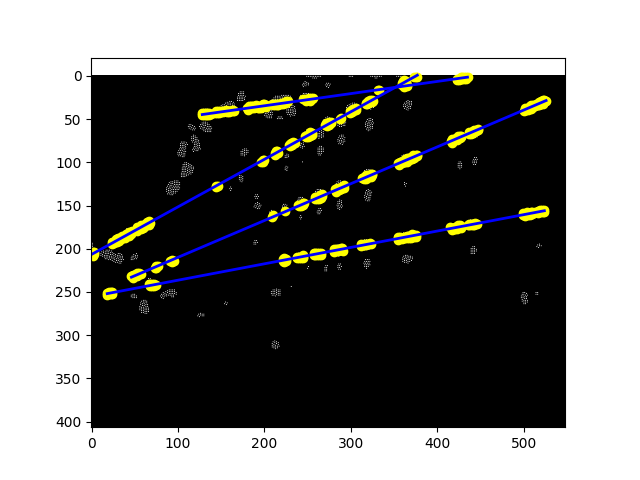
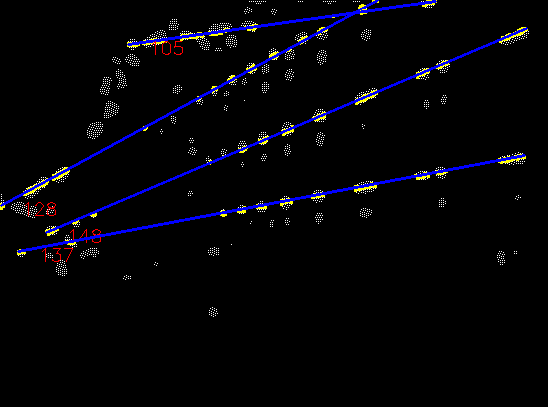
q2

diff --git a/hw2/run.py b/hw2/run.py
@@ -294,17 +294,30 @@ def ransac_fit_func(
         num_point_pairs=num_point_samples,
         threshold=threshold,
     )
-    
+
     # plot
-    plt.imshow(image, cmap="gray")
+    image = cv2.cvtColor(image, cv2.COLOR_GRAY2BGR)
     for cur_r in result:
-        a, b, c, _, inliers = cur_r
+        a, b, c, num_support, inliers = cur_r
         x, y = np.stack(inliers, axis=1)
-        line_x = np.arange(x.min(), x.max(), 0.1)
-        line_y = get_y_from_x(line_x, a, b, c)
-        plt.scatter(x, y, color="yellow")
-        plt.plot(line_x, line_y, color="blue", linewidth=2)
-    plt.savefig(os.path.join(output_folder_path, "ransac.png"))
+        for point in inliers:
+            pt1 = (int(point[0]) - 1, int(point[1]) - 1)
+            pt2 = (int(point[0]) + 1, int(point[1]) + 1)
+            cv2.rectangle(image, pt1, pt2, (0, 255, 255), -1)
+        x0, y0 = int(x.min()), int((-a * x.min() - c) / b)
+        x1, y1 = int(x.max()), int((-a * x.max() - c) / b)
+        cv2.line(image, (x0, y0), (x1, y1), (255, 0, 0), thickness=2)
+        text_pos = (x0 + 20, y0 + 10)
+        cv2.putText(
+            image,
+            f"{num_support}",
+            text_pos,
+            cv2.FONT_HERSHEY_SIMPLEX,
+            0.6,
+            (0, 0, 255),
+            1,
+        )
+    cv2.imwrite(os.path.join(output_folder_path, "ransac.png"), image)
 
 
 if __name__ == "__main__":
